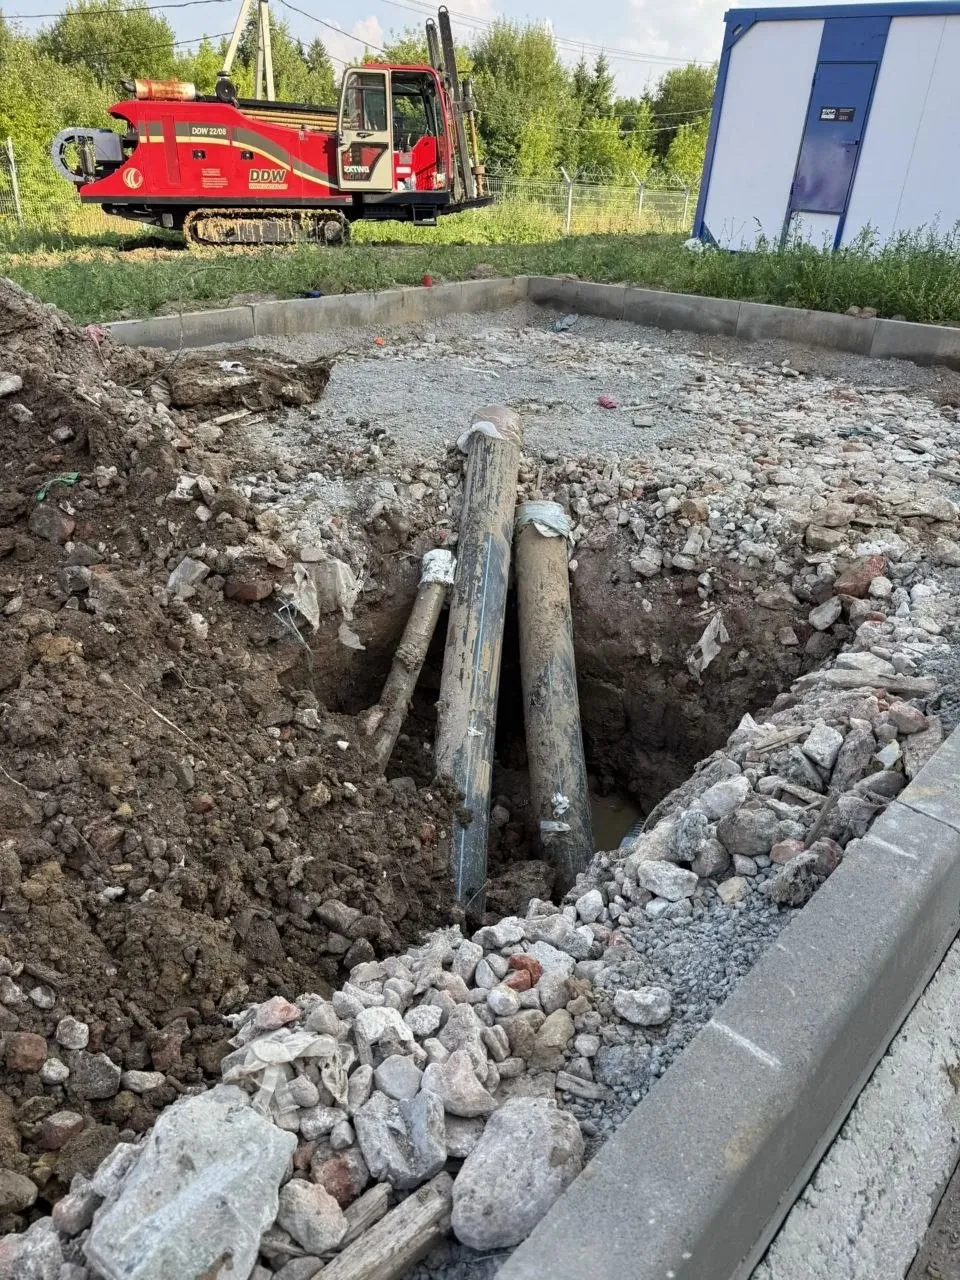
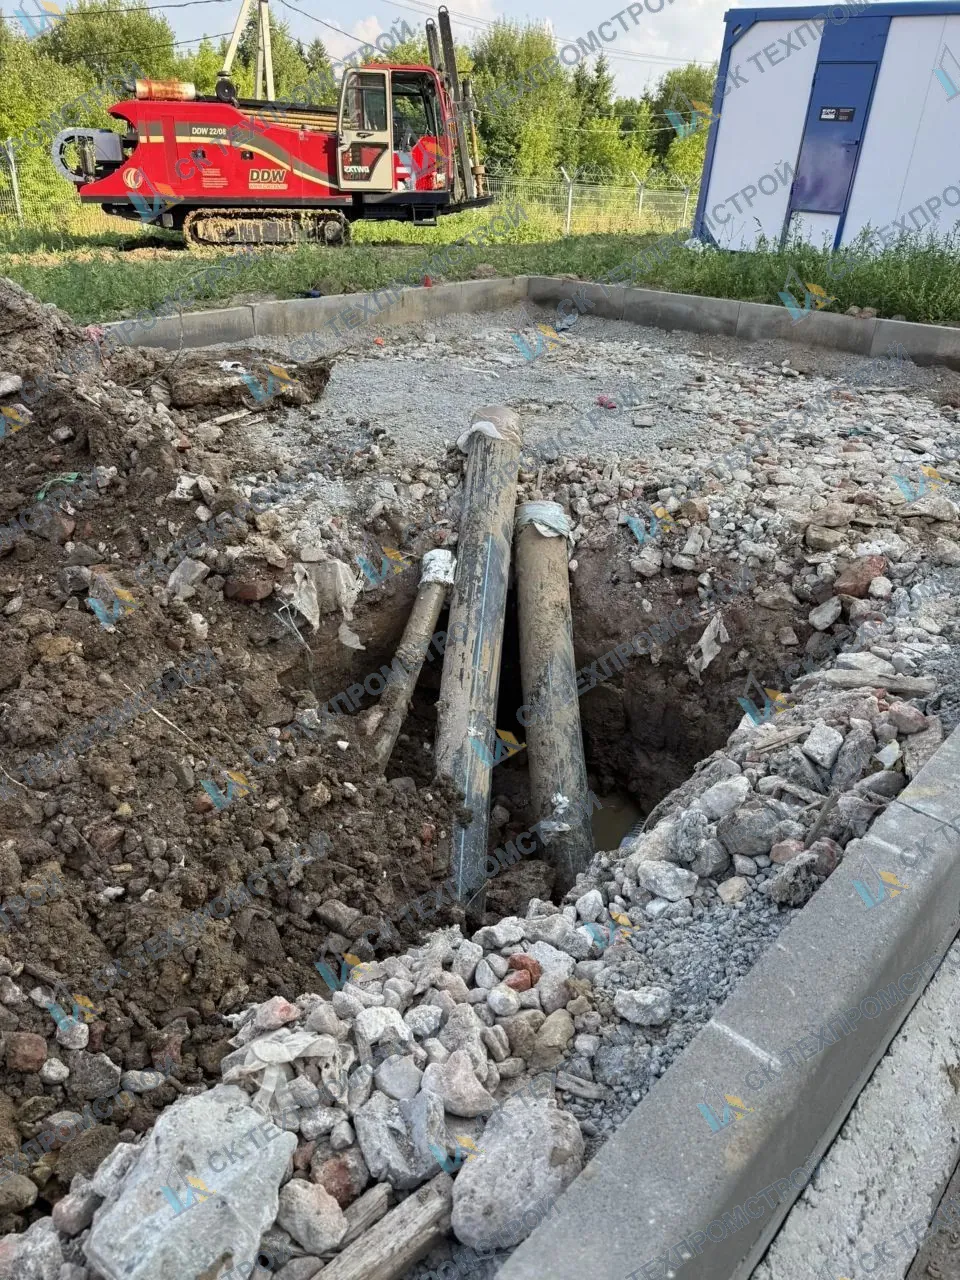
Водяной знак на фото портфолио

diff --git a/README.md b/README.md
@@ -52,7 +52,7 @@ frontend/
 
 `/proekty/` — портфолио из 23 проектов с исходного sk-tps.ru. В него перенесены все 205 уникальных фотографий из карточек и внутренних галерей. Исторические проекты монтажа конструкций и ремонта сохранены в портфолио; строительство зданий и капитальный ремонт отдельными услугами не предлагаются. Основные 22 адреса проектов сохранены, для найденной в sitemap страницы `/page139288356.html` выбран понятный адрес `/rekonstrukciya-dezbarera/`. Перед заменой действующего сайта для старого адреса потребуется 301-редирект.
 
-Новые работы от заказчика добавляются отдельно от миграции: исходные фото кладутся в `frontend/portfolio-sources/<адрес-страницы>/`, затем `cd frontend && node scripts/prepare-portfolio-images.mjs` создаёт WebP (полная версия до 2200 px и превью до 640 px) в `public/images/portfolio/` и манифест `portfolio-photos.json`. Название, категория, описание, список выполненных работ («Выполнили …»), связанные услуги и обложка задаются в `entities/project/model/portfolio.ts`. Такие работы идут первыми в каруселях; список работ выводится на странице объекта. `scripts/verify-content.py` проверяет и их. Первая работа — прокладка кабельной линии 0,4 кВ (электромонтаж).
+Новые работы от заказчика добавляются отдельно от миграции: исходные фото кладутся в `frontend/portfolio-sources/<адрес-страницы>/`, затем `cd frontend && node scripts/prepare-portfolio-images.mjs` создаёт WebP (полная версия до 2200 px и превью до 640 px) с водяным знаком — диагональной сеткой из `public/brand/logo.svg`, как на перенесённых фото, — в `public/images/portfolio/` и манифест `portfolio-photos.json`. Название, категория, описание, список выполненных работ («Выполнили …»), связанные услуги и обложка задаются в `entities/project/model/portfolio.ts`. Такие работы идут первыми в каруселях; список работ выводится на странице объекта. `scripts/verify-content.py` проверяет и их. Первая работа — прокладка кабельной линии 0,4 кВ (электромонтаж).
 
 Шаблоны всех 23 объектов и 11 услуг используют общие секции с главной: допуски и лицензии, варианты сотрудничества, этапы работы, география, обратная связь, преимущества, благодарственные письма, клиенты и отзывы. Они подключены через существующие `Home*`-компоненты в том же порядке, что на главной, после собственного содержимого страницы. Полный блок направлений услуг отображается на главной, городских страницах и в каталоге `/seti/`; в содержимом страниц объектов и услуг сохранены компактные ссылки на связанные услуги. Блок «О компании» находится на главной и городских страницах. Форма связи встречается один раз; собственные первые экраны, галереи и подборки работ сохранены. Ссылка на допуски в описании услуги ведёт к документам на этой же странице.
 
